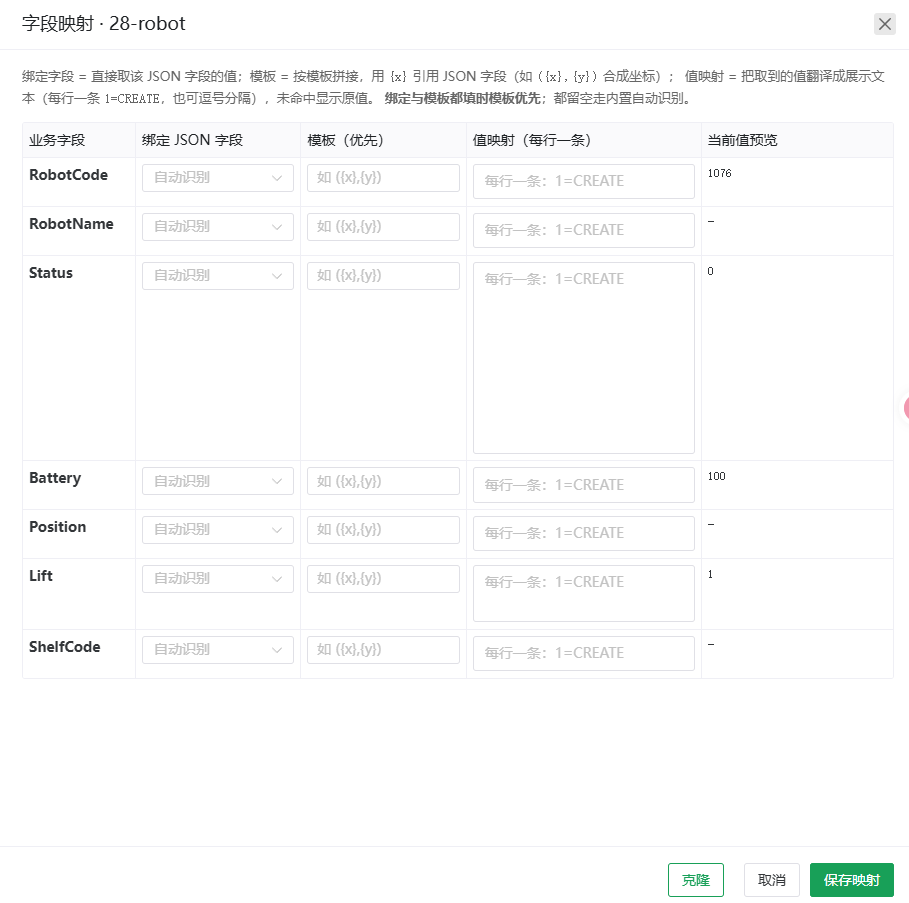
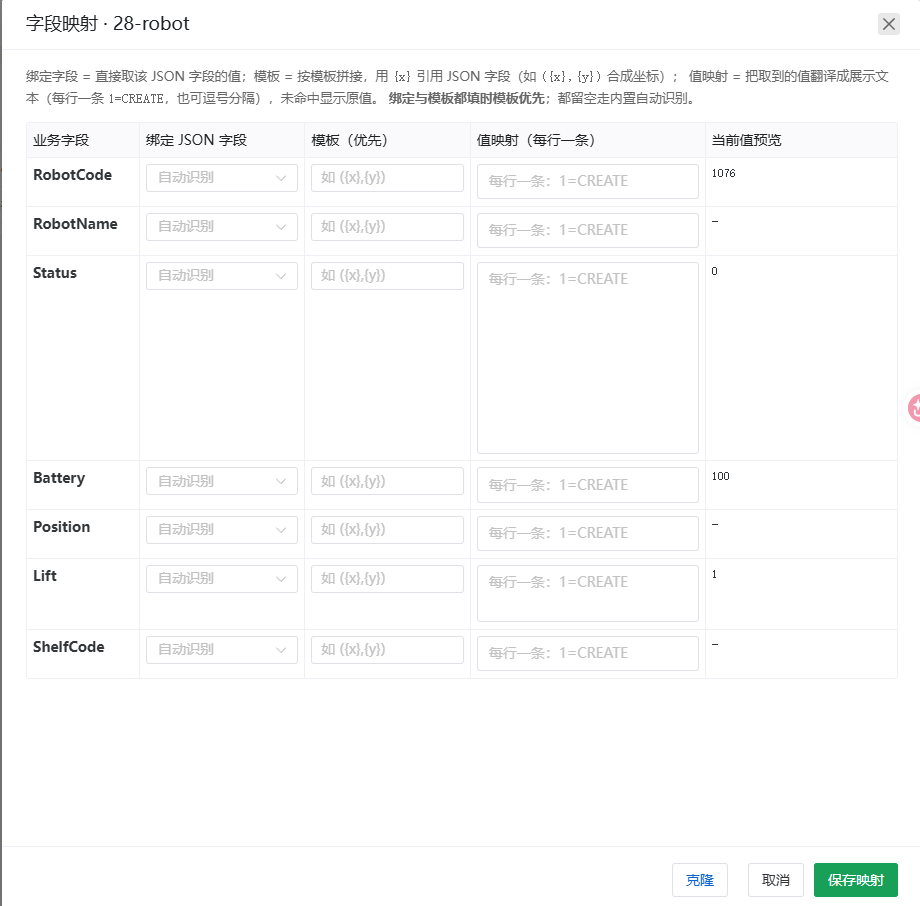
fix(robot-mapping): footer width 100%, fixed-height value-map, honest preview
- footer outer div width:100% (naive drawer-footer may shrink content width,
  flex never expanded -> clone stayed right)
- value-map textarea: fixed 4 rows + internal scroll (autosize dynamic
  height was the residual-height source; constant height cannot leak)
- preview no longer falls back to sample[businessKey] — that fallback
  (id -> 1076) contradicted backend normalize and looked like wrong
  'auto-recognition'; unconfigured fields now show 未配置; backend's
  case-insensitive candidate matching (prev commit) is the real lookup
- placeholder copy updated accordingly

diff --git a/frontend/src/modules/sites/FieldMappingDialog.vue b/frontend/src/modules/sites/FieldMappingDialog.vue
@@ -59,16 +59,18 @@ function isTemplate(v: string | null | undefined): boolean {
   return !!v && v.includes('{')
 }
 
-/** 预览求值：模板优先（{xxx} 用示例数据插值），否则取绑定字段值；再过值映射 */
+/** 预览：仅反映显式配置（绑定/模板 -> 值映射）；未配置显示提示，
+ *  不再回退 sample[key] —— 那与后端真实取值（候选+大小写匹配）不一致，造成误导 */
 function preview(key: string): string {
   if (!sample.value) return '-'
-  let v: unknown
   const tpl = templates.value[key]?.trim()
+  const b = bindings.value[key]
+  if (!tpl && !b) return '未配置'
+  let v: unknown
   if (tpl) {
     v = tpl.replace(/\{(\w+)\}/g, (_, f) => String(sample.value?.[f] ?? ''))
   } else {
-    const b = bindings.value[key]
-    v = b ? sample.value[b] : sample.value[key]
+    v = sample.value[b as string] ?? '-'
   }
   return applyValueMap(v, key)
 }
@@ -193,7 +195,7 @@ async function save() {
         <p style="margin-bottom: 12px; color: #666; font-size: 13px">
           绑定字段 = 直接取该 JSON 字段的值；模板 = 按模板拼接，用 <code>{x}</code> 引用 JSON 字段（如 <code>({x},{y})</code> 合成坐标）；
           值映射 = 把取到的值翻译成展示文本（每行一条 <code>1=CREATE</code>，也可逗号分隔），未命中显示原值。
-          <b>绑定与模板都填时模板优先</b>；都留空走内置自动识别。
+          <b>绑定与模板都填时模板优先</b>；都留空时由后端内置规则取值（大小写不敏感匹配 robotCode 等常见字段名）。
         </p>
         <n-table :single-line="false" size="small" class="mapping-table">
           <thead>
@@ -217,7 +219,7 @@ async function save() {
                   clearable
                   filterable
                   :options="jsonFields.map((jf) => ({ label: jf, value: jf }))"
-                  placeholder="自动识别"
+                  placeholder="未配置则由后端内置规则取值"
                   style="width: 100%"
                 />
               </td>
@@ -234,7 +236,7 @@ async function save() {
                   :key="`v-${robotKey}-${f.key}`"
                   v-model:value="valueMaps[f.key]"
                   type="textarea"
-                  :autosize="{ minRows: 1, maxRows: 8 }"
+                  :rows="4"
                   placeholder="每行一条：1=CREATE"
                 />
               </td>
@@ -246,7 +248,7 @@ async function save() {
         </n-table>
       </n-spin>
       <template #footer>
-        <div style="display: flex; align-items: center; gap: 10px">
+        <div style="display: flex; align-items: center; gap: 10px; width: 100%">
           <n-button style="color: #0b63ce; border-color: #0b63ce" @click="openClone">克隆</n-button>
           <div style="flex: 1" />
           <n-button @click="emit('update:show', false)">取消</n-button>
